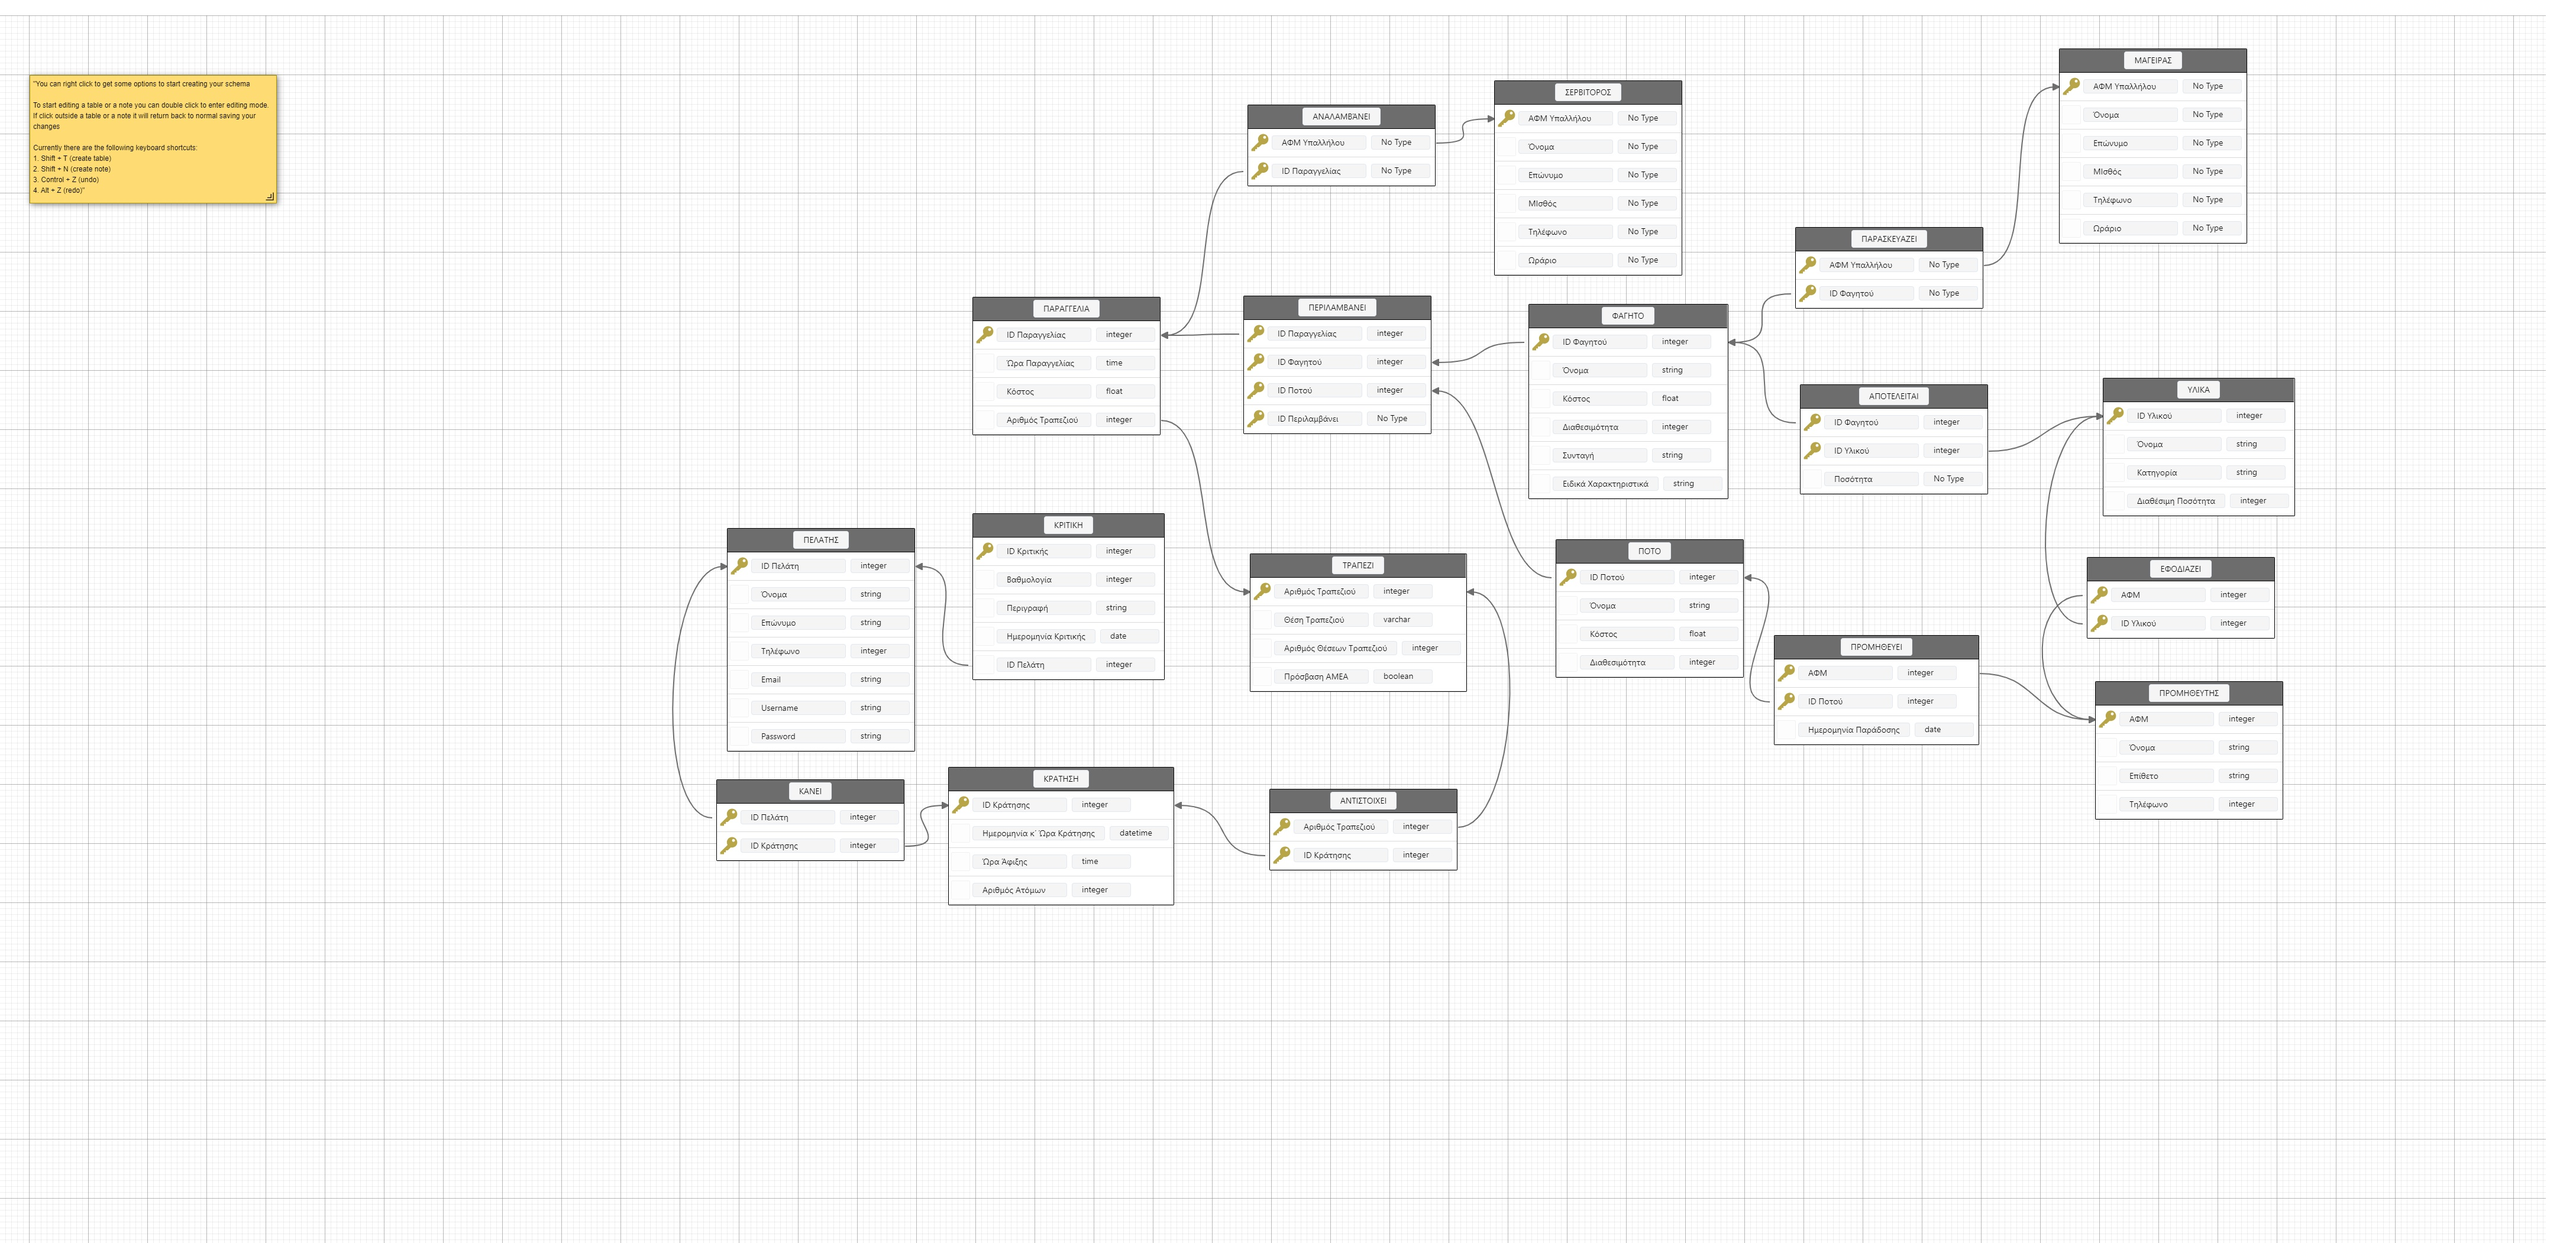
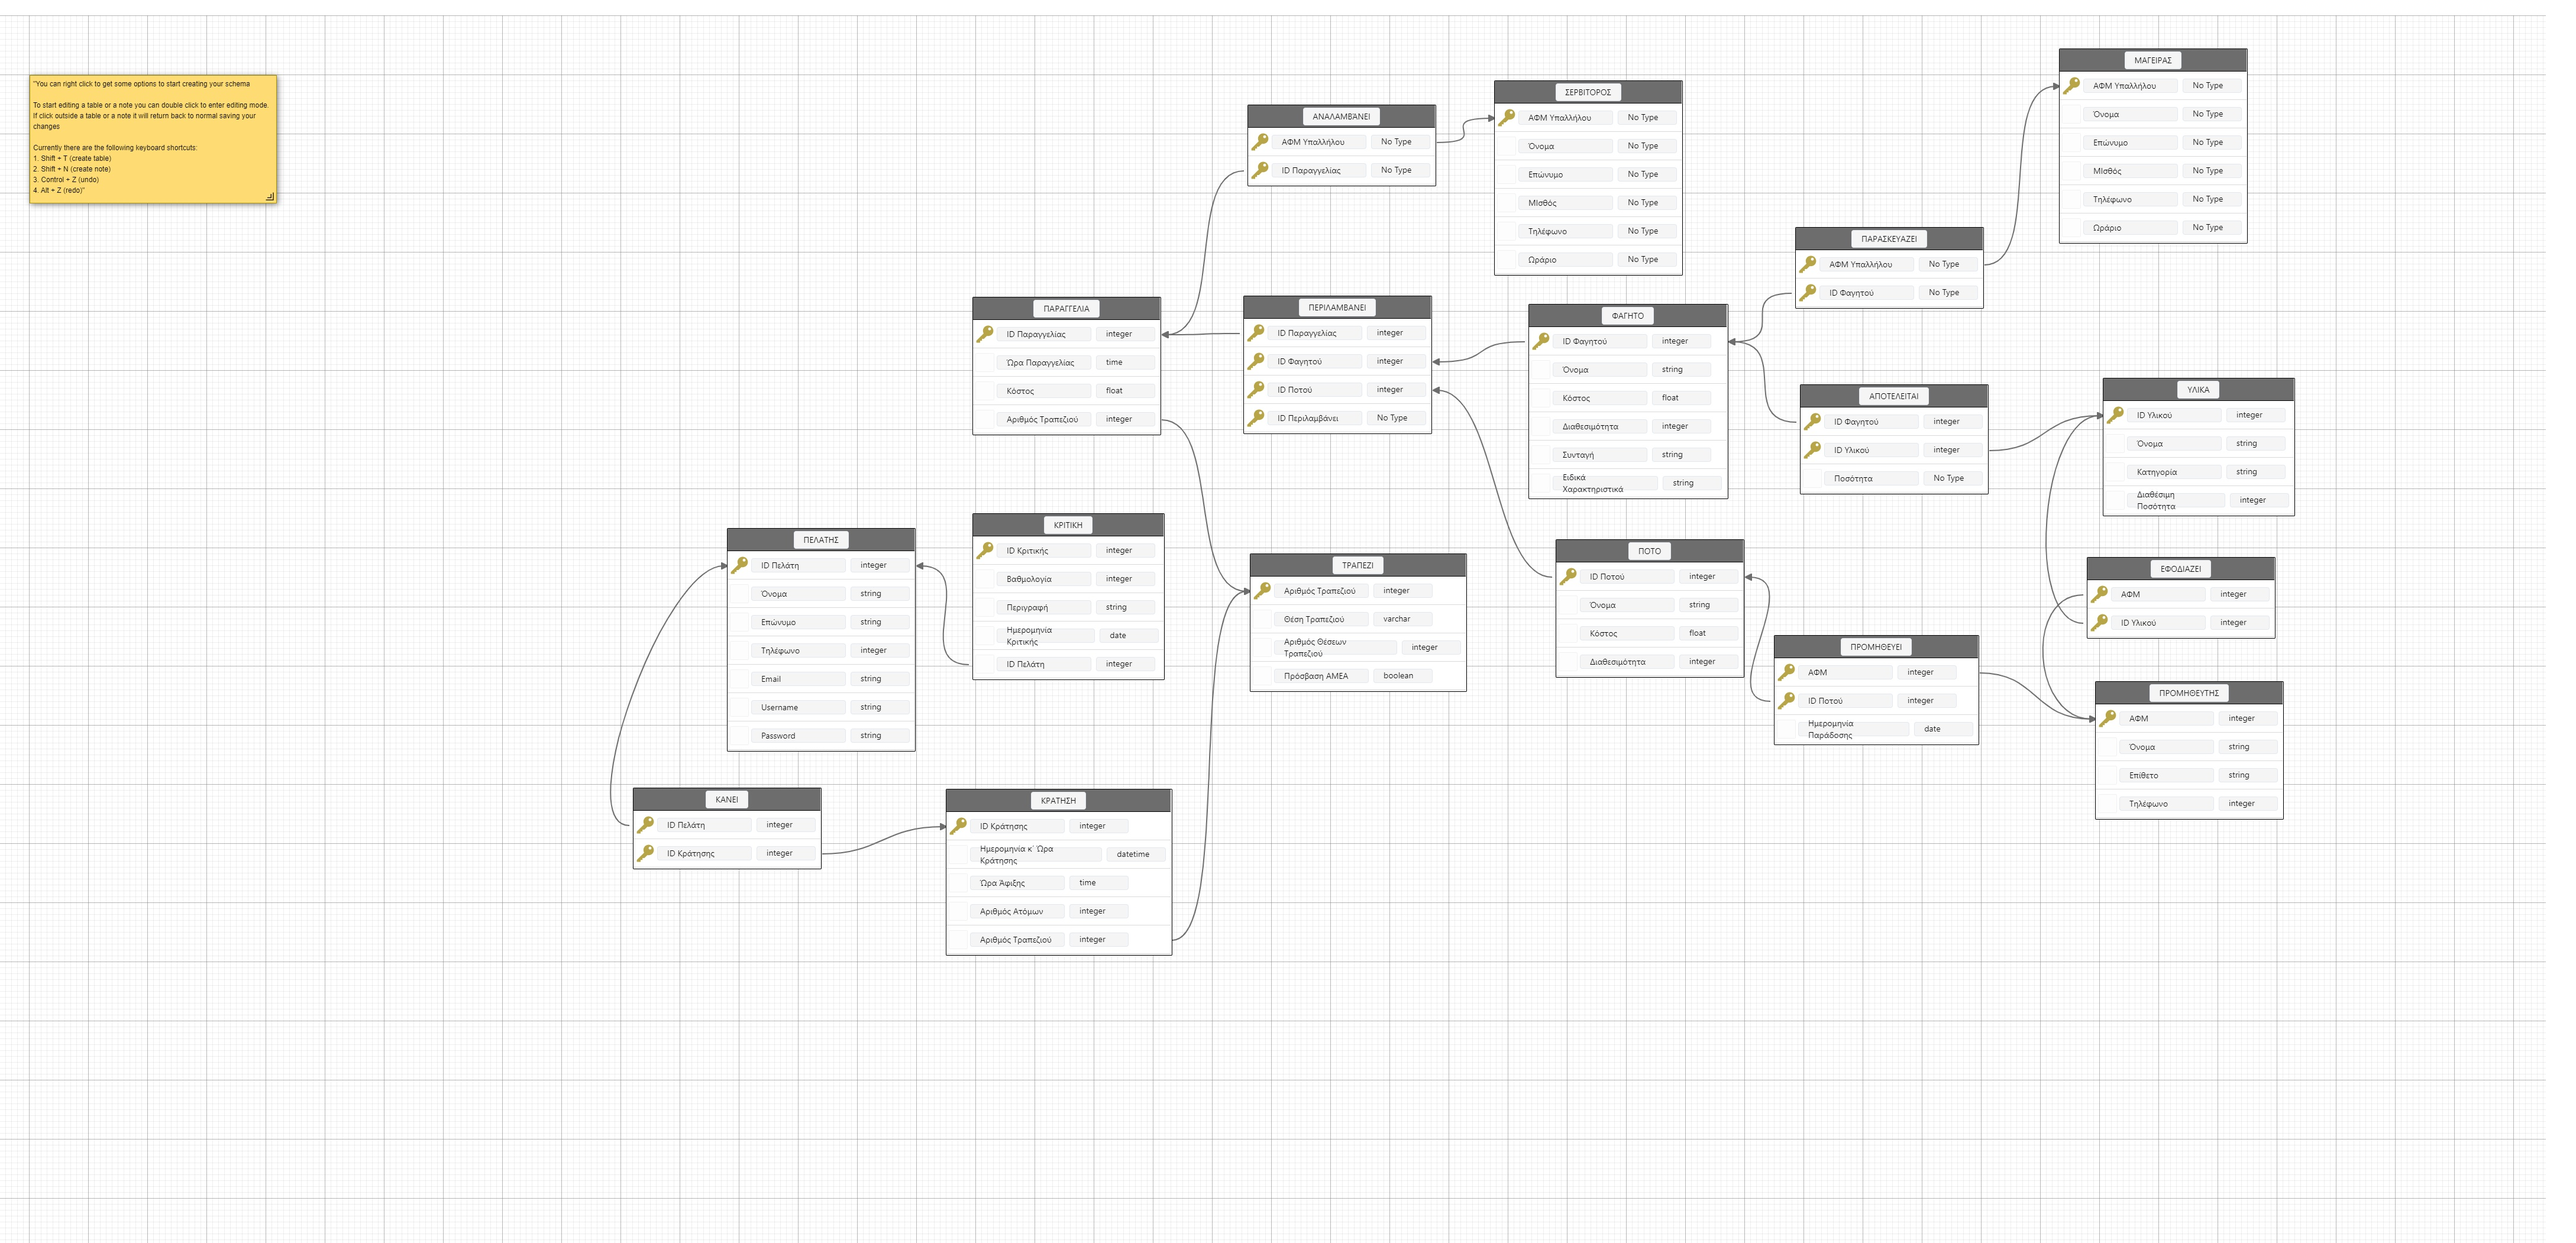
Αλλαγή του σχήματος και του create table και λειτουργικότητα στο customer gui

diff --git a/GUI/Customer_GUI.py b/GUI/Customer_GUI.py
@@ -248,12 +248,18 @@ class PelatisWindow(QWidget):
         self.people = QComboBox(self)
         self.date.addItems(self.load_dates())
         self.tables = QComboBox(self)
+        self.tables.activated.connect(self.people_numbers_limit)
+        self.tables.addItems(self.gettables())
+        self.ora_afixis = QComboBox(self)
+        self.ora_afixis.addItems(self.gettimes())
         vbox.addWidget(QLabel("Επιλέξτε Ημερομηνία:"))
         vbox.addWidget(self.date)
         vbox.addWidget(QLabel("Επιλέξτε Τραπέζι:"))
         vbox.addWidget(self.tables)
         vbox.addWidget(QLabel("Επιλέξτε Αριθμό Ατόμων:"))
         vbox.addWidget(self.people)
+        vbox.addWidget(QLabel("Επιλέξτε Ώρα άφιξης:"))
+        vbox.addWidget(self.ora_afixis)
         vbox.addStretch()
         self.kratisi_btn = QPushButton("Κάνε Κράτηση")
         vbox.addWidget(self.kratisi_btn)
@@ -332,6 +338,39 @@ class PelatisWindow(QWidget):
         except Exception as e:
             print("Error " + str(e))
         self.textedit.setText("")
+
+    def gettables(self):
+        query = "SELECT id_trapeziou FROM TRAPEZI"
+        cursor.execute(query)
+        results = cursor.fetchall()
+        list = [t[0] for t in results]
+        print(list)
+        return list
+
+    def people_numbers_limit(self):
+        query = "select aritmos_theseon from TRAPEZI where id_trapeziou='{}'".format(
+            self.tables.currentText()
+        )
+        cursor.execute(query)
+        results = cursor.fetchall()
+        self.people.clear()
+        for i in range(1, results[0][0] + 1):
+            self.people.addItem(str(i))
+
+    def gettimes(self):
+        return ["19:00", "19:30", "20:00", "20:30", "21:00", "21:30", "22:00"]
+
+    def ypovoli_kratisis(self):
+        cursor.execute(
+            """INSERT INTO KRATISI(imera_ora,aritmos_atomon,id_trapeziou) VALUES(?,?,?)
+""",
+            (
+                self.date.currentText() + " " + self.ora_afixis.currentText() + ":00",
+                int(self.people.currentText()),
+                self.tables.currentText(),
+            ),
+        )
+        conn.commit()
 
 
 def getdatetime():

diff --git a/GUI/create_table.py b/GUI/create_table.py
@@ -17,20 +17,20 @@ CREATE TABLE "PELATIS"(
 );
 """,
     """
-CREATE TABLE "KRATISI"(
-    "id_kratisis"  INTEGER PRIMARY KEY AUTOINCREMENT,
-    "imera_ora" datetime NOT NULL DEFAULT '0000-00-00 00:00:00',
-    "aritmos_atomon" INTEGER
-);
-""",
-    """
 CREATE TABLE "TRAPEZI"(
     "id_trapeziou" varchar(10) NOT NULL UNIQUE,
     "thesi" varchar(20),
     "aritmos_theseon" INTEGER NOT NULL CHECK("aritmos_theseon">0),
-    "id_kratisis" INTEGER,
-    FOREIGN KEY("id_kratisis") REFERENCES "KRATISI"("id_kratisis"),
     PRIMARY KEY("id_trapeziou")
+);
+""",
+    """
+CREATE TABLE "KRATISI"(
+    "id_kratisis"  INTEGER PRIMARY KEY AUTOINCREMENT,
+    "imera_ora" datetime NOT NULL DEFAULT '0000-00-00 00:00:00',
+    "aritmos_atomon" INTEGER,
+    "id_trapeziou" varchar(10) NOT NULL,
+    FOREIGN KEY("id_trapeziou") REFERENCES "TRAPEZI"("id_trapeziou")
 );
 """,
     """
